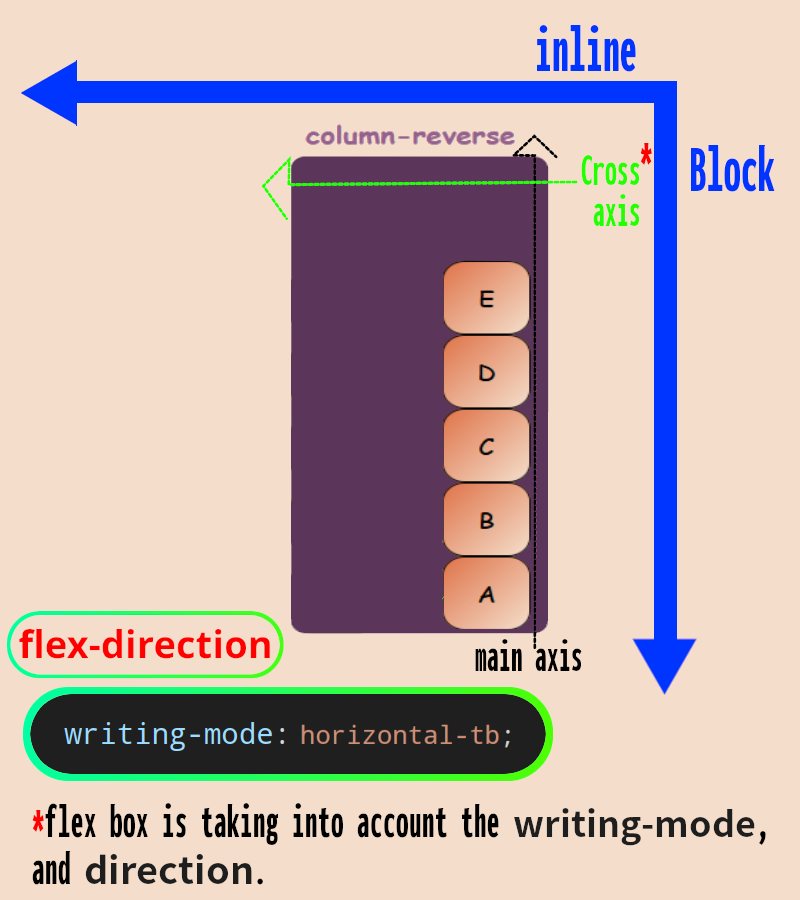
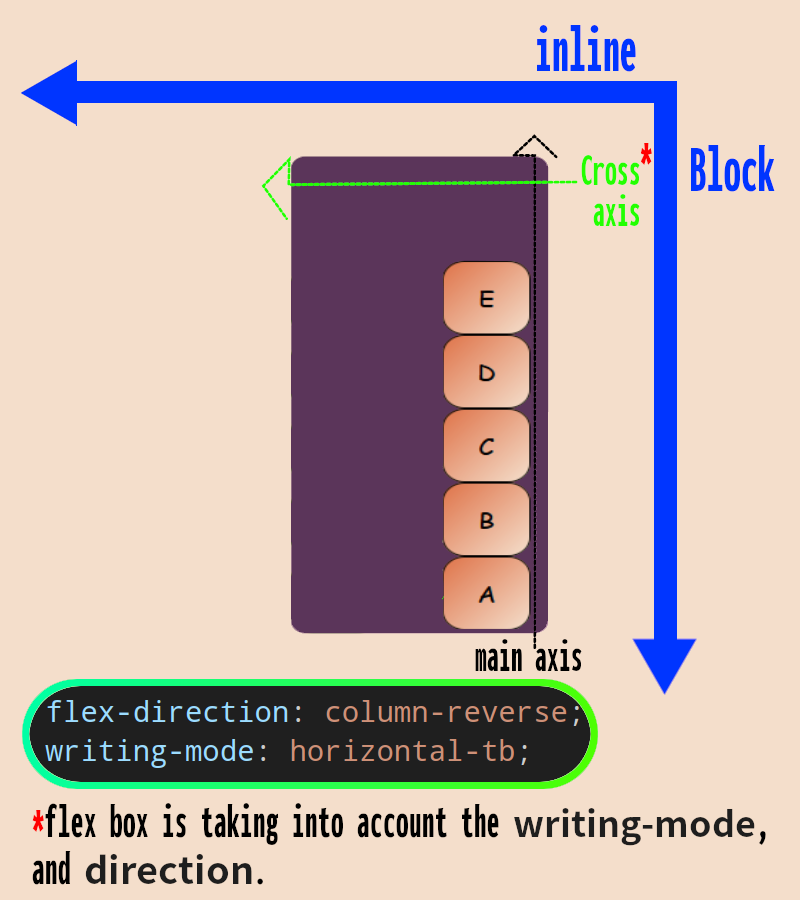
fix: typos + missed info

Changed region(s): [[0.0, 0.6533, 0.75, 0.9022], [0.375, 0.1244, 0.6562, 0.1867]]

diff --git a/20-flex-box/align-items.html b/20-flex-box/align-items.html
@@ -1,19 +1,15 @@
 <style>
   .text-xs {
     font-size: 0.75rem;
-    /* line-height: 1rem; */
   }
   .text-lg {
     font-size: 1.125rem;
-    /* line-height: 1.75rem; */
   }
   .text-4xl {
     font-size: 2.25rem;
-    line-height: 2.5rem;
   }
   .text-8xl {
     font-size: 6rem;
-    line-height: 1;
   }
   .flex {
     display: flex;

diff --git a/20-flex-box/resume.css b/20-flex-box/resume.css
@@ -35,7 +35,7 @@ header.header {
 /* Added this in order to bring the nav center with space-between */
 header.header::after {
   content: "";
-  display: block;
+  display: block flow;
 }
 
 :is(header.header h1:first-child, .header__title) {

diff --git a/20-flex-box/README.md b/20-flex-box/README.md
@@ -203,7 +203,7 @@
 | Inherited  | no                                                        |
 
 - Specifies how flex items in **one** flex line in which they have probably different block-sizes should be laid out.
-- Note: baseline line up all boxes according to the bottom of characters (Look at [this example](./align-items.html) for a better understanding).
+- Note: baseline line up all boxes according to the bottom of characters (Look at [this example](./align-items.html) for a better understanding). **Just for the first line**.
 
   ![align-items different values](./align-items.png)
 
